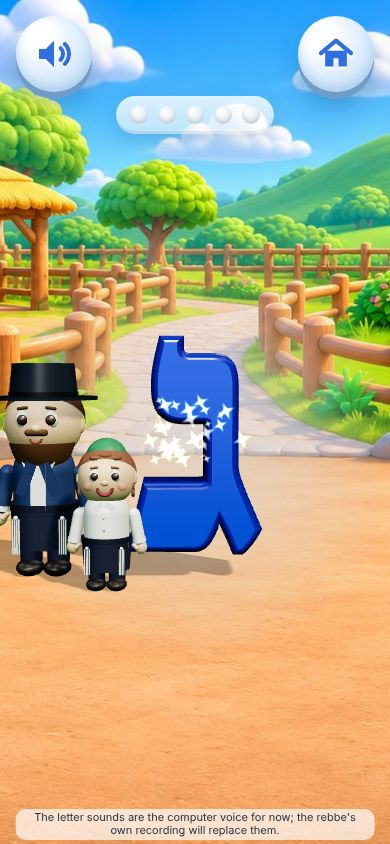
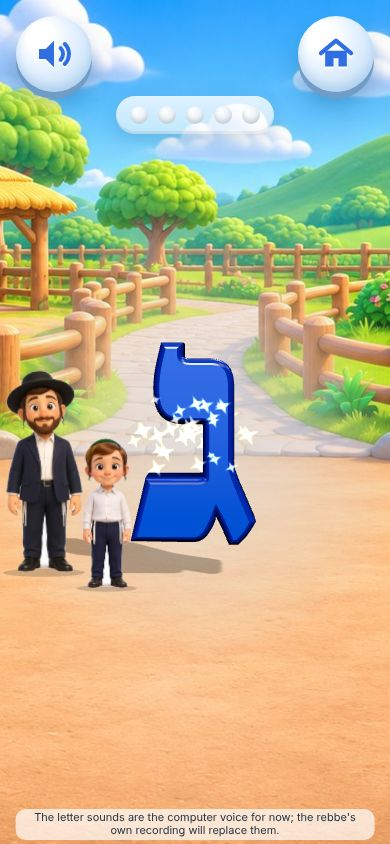
Kriyah Unit 2: Shloimy as his painted picture card in every game
Claude-Session: https://claude.ai/code/session_01GJ5Wb7t89LF21gad8CeRqK

Changed region(s): [[0.0, 0.1848, 1.0, 0.7085], [0.2769, 0.7393, 0.6769, 0.8318]]

diff --git a/v2/app/k-kriyah/games/soundmatch.js b/v2/app/k-kriyah/games/soundmatch.js
@@ -7,7 +7,7 @@ export default function setup(E, { struggled, unit }) {
   const { THREE, S } = E;
   const PIC = makePictures(E), keys = (unit.n > 1 ? ['beis', ...unit.letters] : unit.letters).filter(k => Object.keys(WORDS).some(w => WORDS[w].letter === k && hasPic(w)));   /* in Alef-Beis order, right to left */   /* one earlier letter comes back (Beis, with the bayis) */
   const words = Object.keys(WORDS).filter(w => keys.includes(WORDS[w].letter) && hasPic(w)).filter((w, i, a) => a.slice(0, i).filter(x => WORDS[x].letter === WORDS[w].letter).length < 2);   /* two pictures per letter */
-  const kid = E.person({ kippah: 0x2e8b57, hair: 0x8a5a3c }); E.scene.add(kid);   /* Shloimy */
+  const kid = E.pictureCard('shloimy', () => E.person({ kippah: 0x2e8b57, hair: 0x8a5a3c })); E.scene.add(kid);   /* Shloimy */
   const L = {}, peds = [], pedM = E.M(0xffffff, { roughness: .25, clearcoat: .8 }), tops = [0xff7aa8, 0x46c3ff, 0xffcf3a];
   keys.forEach((k, i) => { const p = new THREE.Group(); p.add(E.mesh(new THREE.CylinderGeometry(.75, .85, .5, 32), pedM, 0, .25, 0)); p.add(E.mesh(new THREE.CylinderGeometry(.78, .78, .12, 32), E.M(tops[i % 3], { roughness: .25, clearcoat: 1 }), 0, .55, 0));
     const l = E.letter(k, 1.4); l.position.y = 1.4; p.add(l); L[k] = l; p.userData.key = k; E.scene.add(p); peds.push(p); });

diff --git a/v2/app/k-kriyah/games/feel.js b/v2/app/k-kriyah/games/feel.js
@@ -18,7 +18,7 @@ export default function setup(E, { unit }) {
   const ORDER = unit.n > 1 ? [...unit.letters, 'beis'] : unit.letters;
   const ROW = unit.n > 1 ? ['beis', ...unit.letters] : ORDER;   /* the finished row is in Alef-Beis order */   /* a later unit ends with one earlier letter (Beis, and its dot) */
   let H = 3.2; const holder = new THREE.Group(); E.scene.add(holder);
-  const boy = unit.n === 2 ? E.person({ kippah: 0x2e8b57, hair: 0x8a5a3c }) : E.mendy(); E.scene.add(boy);   /* each unit's own boy: Mendy, then Shloimy */
+  const boy = unit.n === 2 ? E.pictureCard('shloimy', () => E.person({ kippah: 0x2e8b57, hair: 0x8a5a3c })) : E.mendy(); E.scene.add(boy);   /* each unit's own boy: Mendy, then Shloimy */
   const done = []; let cur = null, beads = [], next = 0, demo = false, active = false, lastHelp = 0, wander = 0, offTries = 0;
   /* the path is a soft glowing road along the letter (never dots: a dot on Beis means the dagesh); the part he has felt
      turns gold, and a pulsing ring shows where to go next */
